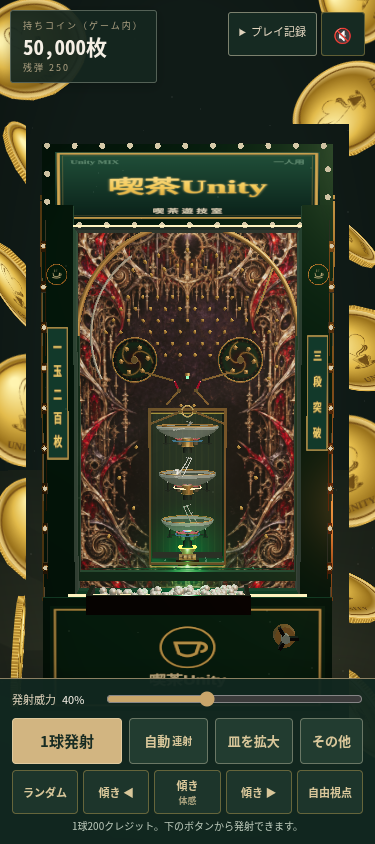
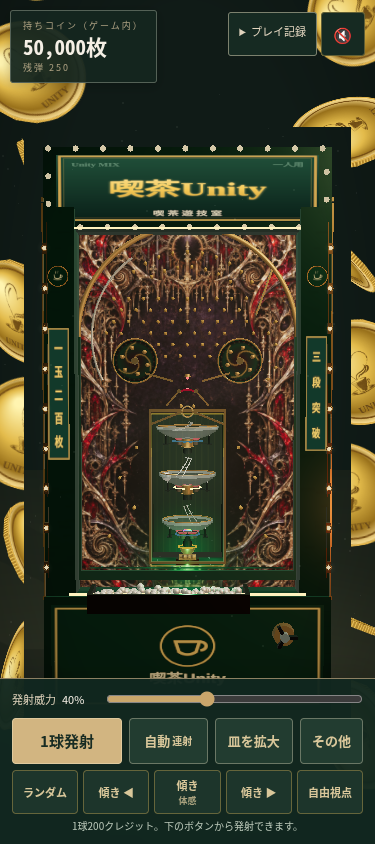
Unify marquee chase and soften cabinet lamp glow

Changed region(s): [[0.0, 0.0, 1.0, 0.8009], [0.4107, 0.7393, 0.5867, 0.8009], [0.44, 0.5545, 0.4987, 0.5853]]

diff --git a/public/silver-ring/src/scene.js b/public/silver-ring/src/scene.js
@@ -690,7 +690,18 @@ export function buildScene(canvas,layout=buildLayout()) {
 
   // ---------- 机柜 ----------
   // Cabinet shell only: keep the board group, its art, collision surfaces and framing untouched.
-  const cabMat = new THREE.MeshStandardMaterial({ color: 0x123b2c, roughness: 0.31, metalness: 0.58, envMapIntensity: 1.0 });
+  const cabinetEnamelTexture = canvasTex(256, 256, (g, w, h) => {
+    g.fillStyle = '#f7faf7'; g.fillRect(0, 0, w, h);
+    let seed = 0x51f15e;
+    const rand = () => { seed = (seed * 1664525 + 1013904223) >>> 0; return seed / 4294967296; };
+    for (let i = 0; i < 112; i++) {
+      const x = rand() * w, y = rand() * h, length = 18 + rand() * 104;
+      g.strokeStyle = rand() > 0.42 ? 'rgba(18,58,43,0.055)' : 'rgba(255,255,255,0.11)';
+      g.lineWidth = 0.35 + rand() * 0.65;
+      g.beginPath(); g.moveTo(x, y); g.lineTo(Math.min(w, x + length), y + (rand() - 0.5) * 1.4); g.stroke();
+    }
+  });
+  const cabMat = new THREE.MeshStandardMaterial({ color: 0x123b2c, map: cabinetEnamelTexture, roughness: 0.31, metalness: 0.58, envMapIntensity: 1.0 });
   const cabinetBrass = new THREE.MeshStandardMaterial({ color: 0xb18b4d, roughness: 0.3, metalness: 0.88, envMapIntensity: 1.15 });
   const cabinetDarkBrass = new THREE.MeshStandardMaterial({ color: 0x604820, roughness: 0.42, metalness: 0.78 });
   const addCab = (w, h, d, x, y, z, mat = cabMat) => {
@@ -775,6 +786,19 @@ export function buildScene(canvas,layout=buildLayout()) {
     new THREE.MeshBasicMaterial({ color: 0xffffff, toneMapped: false }),
     cabinetLampN
   );
+  const lampGlowTex = canvasTex(64, 64, (g, w, h) => {
+    const glow = g.createRadialGradient(w / 2, h / 2, 2, w / 2, h / 2, w / 2);
+    glow.addColorStop(0, 'rgba(255,255,255,0.32)');
+    glow.addColorStop(0.22, 'rgba(255,255,255,0.12)');
+    glow.addColorStop(1, 'rgba(255,255,255,0)');
+    g.fillStyle = glow; g.fillRect(0, 0, w, h);
+  });
+  const cabinetLampGlow = new THREE.InstancedMesh(
+    new THREE.PlaneGeometry(0.075, 0.075),
+    new THREE.MeshBasicMaterial({ map: lampGlowTex, color: 0xffffff, transparent: true, opacity: 0.58, depthWrite: false, blending: THREE.AdditiveBlending, toneMapped: false }),
+    cabinetLampN
+  );
+  cabinetLampGlow.renderOrder = 2;
   const cabinetLampHousings = new THREE.InstancedMesh(
     new THREE.BoxGeometry(0.025, 0.058, 0.02), cabinetDarkBrass, cabinetLampN
   );
@@ -791,6 +815,9 @@ export function buildScene(canvas,layout=buildLayout()) {
       lampMatrix.compose(new THREE.Vector3(x, y, 0.218), lampQuat, lampScale);
       cabinetLampIM.setMatrixAt(index, lampMatrix);
       cabinetLampIM.setColorAt(index, new THREE.Color(0.20, 0.12, 0.055));
+      lampMatrix.compose(new THREE.Vector3(x, y, 0.232), lampQuat, lampScale);
+      cabinetLampGlow.setMatrixAt(index, lampMatrix);
+      cabinetLampGlow.setColorAt(index, new THREE.Color(0.20, 0.12, 0.055));
       lampMatrix.compose(new THREE.Vector3(x, y, 0.207), lampQuat, lampScale);
       cabinetLampHousings.setMatrixAt(index, lampMatrix);
       lampMatrix.compose(new THREE.Vector3(x, y, 0.221), lampQuat, lampScale);
@@ -798,9 +825,10 @@ export function buildScene(canvas,layout=buildLayout()) {
     }
   }
   cabinetLampIM.instanceColor.needsUpdate = true;
+  cabinetLampGlow.instanceColor.needsUpdate = true;
   cabinetLampHousings.instanceMatrix.needsUpdate = true;
   cabinetLampBezels.instanceMatrix.needsUpdate = true;
-  machineG.add(cabinetLampHousings, cabinetLampBezels, cabinetLampIM);
+  machineG.add(cabinetLampHousings, cabinetLampBezels, cabinetLampGlow, cabinetLampIM);
 
   // 看板(沼)
   const marqueeTex = canvasTex(1024, 512, (g, w, h) => {
@@ -1051,7 +1079,7 @@ export function buildScene(canvas,layout=buildLayout()) {
     pinsIM, pinBase, discGs, wingL, wingR, tulipLampMat, gateRing, gateFlash,
     bowlRefs, pkRingMat, pocketG,
     swampUniforms, bubbleIM, sheen,
-    neonMats, bulbIM, bulbN, cabinetLampIM, cabinetLampN,
+    neonMats, bulbIM, bulbN, cabinetLampIM, cabinetLampGlow, cabinetLampN,
     handleG, hKnobG, ballsIM,
     dust, dustGeo, dustVel, dustN,
     alcoveLight, swampLight, key,

diff --git a/public/silver-ring/index.html b/public/silver-ring/index.html
@@ -22,4 +22,4 @@
 <div id="over" class="overlay"><div class="ov-title-sm">コインがなくなりました</div><div class="ov-quote" id="overQuote"></div><div class="ov-quote-cn" id="overQuoteCn"></div><div id="overDebt"></div><button class="btn" id="btnRetry">もう一度遊ぶ（5万枚）</button><button class="btn dark" id="btnBorrow">練習コインを補充（10万枚）</button></div>
 <div id="paused" hidden>一時停止中です。<button class="btn" id="resumeGame">ここから再開</button></div>
 <details id="devPanel" hidden><summary>練習・検証用の操作</summary><button data-stage="0">1段目に投入</button><button data-stage="1">2段目に投入</button><button data-stage="2">3段目に投入</button><button id="devMany">5玉を同時投入</button><button id="devJack">大当たり演出</button><button id="devEmpty">玉切れ</button><p>この操作は自然発射の検証と区別します。</p></details>
-<script type="module" src="./src/main.js?v=cabinetlamps2"></script></body></html>
+<script type="module" src="./src/main.js?v=cabinetlamps3"></script></body></html>

diff --git a/test/silver-cabinet-shell-contract.test.js b/test/silver-cabinet-shell-contract.test.js
@@ -8,7 +8,10 @@ const main = await readFile(new URL('../public/silver-ring/src/main.js', import.
 const fx = await readFile(new URL('../public/silver-ring/src/fx.js', import.meta.url), 'utf8');
 
 test('exterior trim and lamp instances are attached to the cabinet, outside board geometry', () => {
-  assert.match(scene, /machineG\.add\(cabinetLampHousings, cabinetLampBezels, cabinetLampIM\)/);
+  assert.match(scene, /cabinetEnamelTexture/);
+  assert.match(scene, /map: cabinetEnamelTexture/);
+  assert.match(scene, /cabinetLampGlow/);
+  assert.match(scene, /machineG\.add\(cabinetLampHousings, cabinetLampBezels, cabinetLampGlow, cabinetLampIM\)/);
   assert.match(scene, /const cabinetLampN = 18/);
   assert.match(scene, /const badgeN = 2/);
   assert.match(scene, /machineG\.add\(badgeFaces, badgeRings, cupBadges\)/);

diff --git a/public/silver-ring/src/main.js b/public/silver-ring/src/main.js
@@ -12,8 +12,8 @@ import{renderFrame}from'./render-frame.js';
 import { CFG,buildLayout } from './config.js';
 import {createRng} from './seed.js';
 import { Sim, clearPower, randPowerRange } from './physics.js';
-import { buildScene, TOUCH } from './scene.js?v=cabinetlamps2';
-import { FX } from './fx.js?v=cabinetlamps2';
+import { buildScene, TOUCH } from './scene.js?v=cabinetlamps3';
+import { FX } from './fx.js?v=cabinetlamps3';
 import { AudioEngine } from './audio.js?v=credits1';
 import { UI } from './ui.js';
 import {mountPresentation} from './presentation.js';

diff --git a/public/silver-ring/src/fx.js b/public/silver-ring/src/fx.js
@@ -501,8 +501,11 @@ export class FX {
         const rgb = cabinetState.rgb;
         this._c.setRGB(rgb[0] * intensity, rgb[1] * intensity, rgb[2] * intensity);
         R.cabinetLampIM.setColorAt(i, this._c);
+        this._c.multiplyScalar(0.46);
+        R.cabinetLampGlow.setColorAt(i, this._c);
       }
       if (R.cabinetLampIM.instanceColor) R.cabinetLampIM.instanceColor.needsUpdate = true;
+      if (R.cabinetLampGlow.instanceColor) R.cabinetLampGlow.instanceColor.needsUpdate = true;
     }
 
     // ---- 霓虹 / 金属导光线 ----

diff --git a/test/silver_cabinet_lamps_browser.py b/test/silver_cabinet_lamps_browser.py
@@ -28,6 +28,9 @@ with sync_playwright() as p:
         initial = page.evaluate('''() => ({
           boardChildren: SILVER_GAME.refs.boardG.children.length,
           lampCount: SILVER_GAME.refs.cabinetLampN,
+          renderCalls: SILVER_GAME.refs.renderer.info.render.calls,
+          triangles: SILVER_GAME.refs.renderer.info.render.triangles,
+          canvas: [SILVER_GAME.refs.renderer.domElement.width, SILVER_GAME.refs.renderer.domElement.height],
           phase: SILVER_GAME.S.phase,
           width: innerWidth,
           scrollWidth: document.documentElement.scrollWidth
@@ -35,7 +38,10 @@ with sync_playwright() as p:
         assert initial['boardChildren'] == 54, initial
         assert initial['lampCount'] == 18, initial
         assert initial['scrollWidth'] <= w, initial
+        assert initial['renderCalls'] <= 210, initial
+        assert initial['triangles'] <= 170000, initial
         idle_max = page.evaluate('Math.max(...SILVER_GAME.refs.cabinetLampIM.instanceColor.array)')
+        idle_glow_max = page.evaluate('Math.max(...SILVER_GAME.refs.cabinetLampGlow.instanceColor.array)')
         idle_bulb_palette = page.evaluate('''() => {
           const c = SILVER_GAME.refs.bulbIM.instanceColor.array;
           return Math.max(...Array.from({length:SILVER_GAME.refs.bulbN}, (_, i) => c[i*3+1] - c[i*3]));
@@ -67,11 +73,13 @@ with sync_playwright() as p:
         assert pulse == 'bowl', pulse
         page.wait_for_function('Math.max(...SILVER_GAME.refs.cabinetLampIM.instanceColor.array) > 0.5', timeout=15000)
         event_max = page.evaluate('Math.max(...SILVER_GAME.refs.cabinetLampIM.instanceColor.array)')
+        event_glow_max = page.evaluate('Math.max(...SILVER_GAME.refs.cabinetLampGlow.instanceColor.array)')
         event_bulb_palette = page.evaluate('''() => {
           const c = SILVER_GAME.refs.bulbIM.instanceColor.array;
           return Math.max(...Array.from({length:SILVER_GAME.refs.bulbN}, (_, i) => c[i*3+1] - c[i*3]));
         }''')
         assert event_max > idle_max + 0.2, (idle_max, event_max)
+        assert event_glow_max > idle_glow_max + 0.08, (idle_glow_max, event_glow_max)
         assert event_bulb_palette > idle_bulb_palette + 0.2, (idle_bulb_palette, event_bulb_palette)
         page.screenshot(path=str(out / f'{w}x{h}-event.png'))
 
@@ -85,6 +93,7 @@ with sync_playwright() as p:
         page.wait_for_function("() => SILVER_GAME.fx._cabinetLampSignature === 'champagne:0.72:-1'")
         page.wait_for_timeout(250)
         reduced_lights_a = page.evaluate('Array.from(SILVER_GAME.refs.cabinetLampIM.instanceColor.array)')
+        reduced_glow_a = page.evaluate('Array.from(SILVER_GAME.refs.cabinetLampGlow.instanceColor.array)')
         reduced_marquee_a = page.evaluate('Array.from(SILVER_GAME.refs.bulbIM.instanceColor.array)')
         reduced_lines_a = page.evaluate('SILVER_GAME.refs.neonMats.map(m => m.color.toArray())')
         assert page.evaluate("""async () => {
@@ -95,12 +104,14 @@ with sync_playwright() as p:
         }""")
         page.wait_for_function('() => SILVER_GAME.fx.cabinetPulse?.age > 0.3')
         reduced_lights_b = page.evaluate('Array.from(SILVER_GAME.refs.cabinetLampIM.instanceColor.array)')
+        reduced_glow_b = page.evaluate('Array.from(SILVER_GAME.refs.cabinetLampGlow.instanceColor.array)')
         reduced_marquee_b = page.evaluate('Array.from(SILVER_GAME.refs.bulbIM.instanceColor.array)')
         reduced_lines_b = page.evaluate('SILVER_GAME.refs.neonMats.map(m => m.color.toArray())')
         if reduced_lights_a != reduced_lights_b:
             changed = [(i, round(a, 4), round(b, 4)) for i, (a, b) in enumerate(zip(reduced_lights_a, reduced_lights_b)) if a != b]
             raise AssertionError(f'reduced-motion cabinet lamps changed between frames: {changed[:12]} state={page.evaluate("({mode:SILVER_GAME.fx.neonMode,pulse:SILVER_GAME.fx.cabinetPulse,reduced:SILVER_GAME.S.reduce})")!r}')
         assert reduced_marquee_a == reduced_marquee_b, 'reduced-motion marquee lamps changed between frames'
+        assert reduced_glow_a == reduced_glow_b, 'reduced-motion lamp glow changed between frames'
         assert reduced_lines_a == reduced_lines_b, 'reduced-motion light bars changed between frames'
         page.screenshot(path=str(out / f'{w}x{h}-reduced.png'))
         page.evaluate('SILVER_GAME.fx.jackpotOn = false; SILVER_GAME.S.jackpotLock = false; SILVER_GAME.fx.setNeonMode("idle")')
@@ -114,7 +125,7 @@ with sync_playwright() as p:
         assert page.evaluate('SILVER_GAME.S.fired') == 1
         assert page.evaluate('SILVER_GAME.S.funds') == 49800
         assert not errors, errors
-        rows.append({**initial, 'eventLamp': pulse, 'idleMaxLampColor': idle_max, 'eventMaxLampColor': event_max, 'idleMarqueePalette': idle_bulb_palette, 'eventMarqueePalette': event_bulb_palette, 'tierChaseAndMissPalette': True, 'priorityPulse': priority, 'jackpotModePersists': True, 'reducedMotionStatic': True, 'pauseClearsPulse': True, 'singleShot': 1, 'errors': errors})
+        rows.append({**initial, 'eventLamp': pulse, 'idleMaxLampColor': idle_max, 'eventMaxLampColor': event_max, 'idleGlowMax': idle_glow_max, 'eventGlowMax': event_glow_max, 'idleMarqueePalette': idle_bulb_palette, 'eventMarqueePalette': event_bulb_palette, 'tierChaseAndMissPalette': True, 'priorityPulse': priority, 'jackpotModePersists': True, 'reducedMotionStatic': True, 'pauseClearsPulse': True, 'singleShot': 1, 'errors': errors})
         page.close()
     for w, h in [(375, 667), (844, 390)]:
         page = browser.new_page(viewport={'width': w, 'height': h}, device_scale_factor=1, has_touch=True, is_mobile=True)

diff --git a/docs/retro-cabinet-lamps-worklog.md b/docs/retro-cabinet-lamps-worklog.md
@@ -5,13 +5,13 @@
 - Existing dirty checkout `/workspace/Unity-Web` and its unrelated H3 changes remain untouched.
 - User-selected direction: first concept, dark emerald cabinet with brass trim and warm/green/champagne lamps.
 - Scope lock: preserve playfield/役物 geometry, physics/settlement, CFG, controls, camera/layout values and audio. Only decorative cabinet appearance and lamp choreography may change.
-- Active implementation: approximately 50 minutes through 18:42 UTC; dedicated 60-minute QA phase: not started. This is a conservative estimate; tool waits, browser startup and idle time are excluded. Browser runs so far are implementation smoke checks, not counted toward the separate QA allowance.
+- Active implementation: approximately 58 minutes through 18:53 UTC; dedicated 60-minute QA phase: not started. This is a conservative estimate; tool waits, browser startup and idle time are excluded. Browser runs so far are implementation smoke checks, not counted toward the separate QA allowance.
 - Baseline: captured at 375/390/414 × 844 in Chromium, same page and play flow. Main reference is `docs/qa/retro-cabinet-lamps/baseline/390x844-idle.png`; initial local-only logo 404 from an incorrect server root was corrected before validating changes.
-- Exterior: dark emerald enamel body, batched brass rails, 18 instanced side lamps with bezels, two symmetric coffee medallions, and the existing marquee lights retained. Lower marquee guide line moved to the sign lip to clear its subtitle. The side rails and header bulbs now share event color and chase.
+- Exterior: dark emerald enamel body with deterministic satin-grain texture, batched brass rails, 18 instanced side lamps with bezels and soft glow, two symmetric coffee medallions, and the existing marquee lights retained. Lower marquee guide line moved to the sign lip to clear its subtitle. The side rails and header bulbs now share event color and chase.
 - Lamp state is deterministic and separate from physics. Gate/bowl/sink/jackpot events produce amber/emerald/champagne pulses with progression priority; weaker new events cannot replace an active win/jackpot. Sink miss is amber; deeper bowl entries advance farther. Reduced-motion mode holds static color, disables chase, and avoids repeated instance-buffer uploads. Pause and game over clear temporary pulses.
 - A previous suspicion that the frame loop overwrote jackpot mode was checked against `jackpotLock`; no bug was present and the unnecessary change was reverted.
 - Matched captures: baseline `docs/qa/retro-cabinet-lamps/baseline/390x844-wide-matched.png`, updated `docs/qa/retro-cabinet-lamps/final/390x844-wide-matched.png`; target-width idle/event/jackpot/reduced captures are under `docs/qa/retro-cabinet-lamps/final/`.
-- Latest implementation smoke across 375/390/414×844, 375×667, and 844×390: phase `play`, board children 54, cabinet lamps 18, no horizontal overflow, event pulse priority and stage paths pass, jackpot lock persists, reduced-motion lamp arrays remain byte-identical between stable frames, pause clears pulses, single shot still deducts 200, and no app JS/page/resource errors. Side-lamp max channel rises from ~0.24 idle to 1.75–2.02 during bowl entry. Header-bulb green-minus-red contrast changes from ~-0.15 in amber idle to +1.40…+1.61 in emerald event state.
+- Latest implementation smoke across 375/390/414×844, 375×667, and 844×390: phase `play`, board children 54, cabinet lamps 18, no horizontal overflow, event pulse priority and stage paths pass, jackpot lock persists, reduced-motion lamp/glow/marquee arrays remain byte-identical between stable frames, pause clears pulses, single shot still deducts 200, and no app JS/page/resource errors. Side-lamp max channel rises from ~0.24 idle to 1.75–2.02 during bowl entry; diffuse-glow max rises from ~0.11 to 0.81–0.93. Header-bulb green-minus-red contrast changes from ~-0.15 in amber idle to +1.40…+1.64 in emerald event state.
 - Focused lamp-state/shell-contract tests pass 12/12. Earlier, all silver unit suites except `silver-security.test.js` passed 23/23; the security suite could not resolve `ws` because this isolated worktree has no installed project dependencies. No package was added. `node --check`, Python syntax check, and `git diff --check` pass.
-- Matched 390px renderer count after batching and emblems: main 194 calls / 153,790 triangles; updated 202 calls / 161,010 triangles (+8 calls, +4.69% triangles), render size unchanged. Browser rAF is very slow under software WebGL (~4–5 fps on both versions); this is not a physical handset or hardware-acceleration measurement. At matched camera mode, machine bounds remain `[-1,-0.02,-1.161]` to `[1,3.056,0.839]`, renderer canvas remains 390×844, and board child count remains 54.
+- Matched 390px renderer count after batching and emblems: main 194 calls / 153,790 triangles; updated 203 calls / 161,046 triangles (+9 calls, +4.72% triangles), render size unchanged. Browser rAF is very slow under software WebGL; this is not a physical handset or hardware-acceleration measurement. At matched camera mode, machine bounds remain `[-1,-0.02,-1.161]` to `[1,3.056,0.839]`, renderer canvas remains 390×844, and board child count remains 54.
 - Current phase decision: continue implementation improvements. The requested 120-minute implementation block is not complete; separate 60-minute QA and production deployment have not started.
